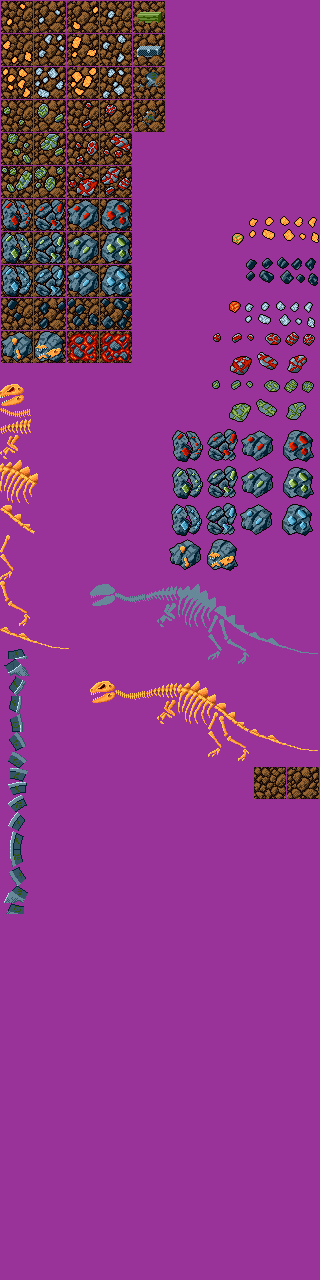
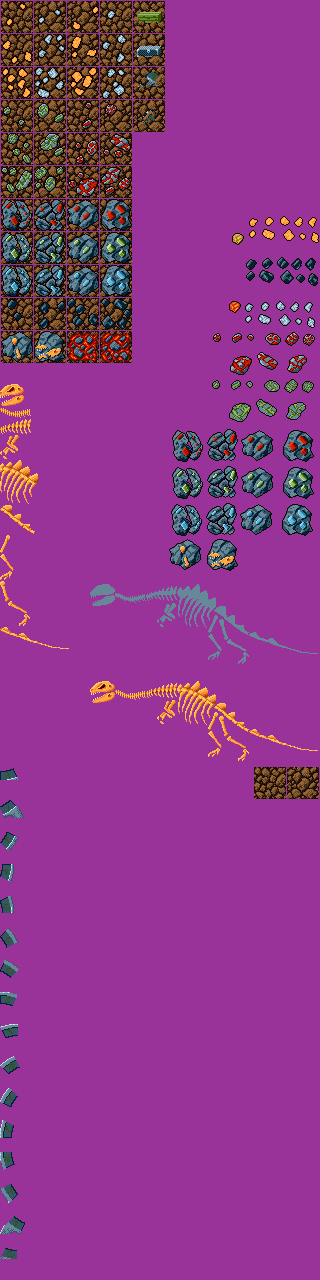
update gate and related base bitmaps to final versions (?)

Changed region(s): [[0.0, 0.5, 0.0938, 1.0]]

diff --git a/src/collectibles.c b/src/collectibles.c
@@ -65,39 +65,39 @@ static const tCollectiblesZoneDef s_pZones[COLLECTIBLE_KIND_COUNT] = {
 		// TODO: Proper values
 		.ubCount = DEFS_QUEST_GATE_PART_COUNT,
 		.pBobCoords = {
-			{.uwX = 32 +  73, .uwY = 209 * TILE_SIZE + 217},
-			{.uwX = 32 +  90, .uwY = 209 * TILE_SIZE + 210},
-			{.uwX = 32 +  97, .uwY = 209 * TILE_SIZE + 198},
-			{.uwX = 32 + 104, .uwY = 209 * TILE_SIZE + 186},
-			{.uwX = 32 + 103, .uwY = 209 * TILE_SIZE + 168},
-			{.uwX = 32 +  97, .uwY = 209 * TILE_SIZE + 154},
-			{.uwX = 32 +  87, .uwY = 209 * TILE_SIZE + 144},
-			{.uwX = 32 +  72, .uwY = 209 * TILE_SIZE + 141},
-			{.uwX = 32 +  56, .uwY = 209 * TILE_SIZE + 141},
-			{.uwX = 32 +  42, .uwY = 209 * TILE_SIZE + 144},
-			{.uwX = 32 +  32, .uwY = 209 * TILE_SIZE + 153},
-			{.uwX = 32 +  27, .uwY = 209 * TILE_SIZE + 167},
-			{.uwX = 32 +  27, .uwY = 209 * TILE_SIZE + 185},
-			{.uwX = 32 +  31, .uwY = 209 * TILE_SIZE + 198},
-			{.uwX = 32 +  40, .uwY = 209 * TILE_SIZE + 210},
-			{.uwX = 32 +  57, .uwY = 209 * TILE_SIZE + 216},
+			{.uwX = 32 +  96, .uwY = 209 * TILE_SIZE + 219},
+			{.uwX = 32 + 110, .uwY = 209 * TILE_SIZE + 213},
+			{.uwX = 32 + 120, .uwY = 209 * TILE_SIZE + 202},
+			{.uwX = 32 + 127, .uwY = 209 * TILE_SIZE + 189},
+			{.uwX = 32 + 127, .uwY = 209 * TILE_SIZE + 172},
+			{.uwX = 32 + 120, .uwY = 209 * TILE_SIZE + 157},
+			{.uwX = 32 + 109, .uwY = 209 * TILE_SIZE + 148},
+			{.uwX = 32 +  96, .uwY = 209 * TILE_SIZE + 145},
+			{.uwX = 32 +  78, .uwY = 209 * TILE_SIZE + 145},
+			{.uwX = 32 +  64, .uwY = 209 * TILE_SIZE + 148},
+			{.uwX = 32 +  55, .uwY = 209 * TILE_SIZE + 158},
+			{.uwX = 32 +  52, .uwY = 209 * TILE_SIZE + 172},
+			{.uwX = 32 +  52, .uwY = 209 * TILE_SIZE + 190},
+			{.uwX = 32 +  55, .uwY = 209 * TILE_SIZE + 203},
+			{.uwX = 32 +  59, .uwY = 209 * TILE_SIZE + 213},
+			{.uwX = 32 +  79, .uwY = 209 * TILE_SIZE + 220},
 		},
 		.pBobSizes = {
-			{.uwX = 32, .uwY = 10},
+			{.uwX = 32, .uwY = 12},
+			{.uwX = 32, .uwY = 18},
+			{.uwX = 32, .uwY = 19},
+			{.uwX = 32, .uwY = 18},
 			{.uwX = 32, .uwY = 17},
 			{.uwX = 32, .uwY = 20},
 			{.uwX = 32, .uwY = 18},
-			{.uwX = 32, .uwY = 18},
-			{.uwX = 32, .uwY = 19},
-			{.uwX = 32, .uwY = 17},
 			{.uwX = 32, .uwY = 14},
-			{.uwX = 32, .uwY = 13},
-			{.uwX = 32, .uwY = 17},
+			{.uwX = 32, .uwY = 14},
+			{.uwX = 32, .uwY = 18},
 			{.uwX = 32, .uwY = 19},
 			{.uwX = 32, .uwY = 18},
 			{.uwX = 32, .uwY = 18},
 			{.uwX = 32, .uwY = 19},
-			{.uwX = 32, .uwY = 17},
+			{.uwX = 32, .uwY = 18},
 			{.uwX = 32, .uwY = 11},
 		},
 		.szFramesFile = "data/gate.bm",

diff --git a/src/twister.c b/src/twister.c
@@ -9,13 +9,13 @@
 #include "core.h"
 
 #define TWISTER_BITMAP_VISIBLE_WIDTH 80
-#define TWISTER_BITMAP_VISIBLE_HEIGHT 67
+#define TWISTER_BITMAP_VISIBLE_HEIGHT 65
 #define CLIP_MARGIN_X 32
 #define CLIP_MARGIN_Y 16
 #define TWISTER_BITMAP_WIDTH (2 * CLIP_MARGIN_X + TWISTER_BITMAP_VISIBLE_WIDTH)
 #define TWISTER_BITMAP_HEIGHT (2 * CLIP_MARGIN_Y + TWISTER_BITMAP_VISIBLE_HEIGHT)
-#define TWISTER_CAMERA_OFFSET_X (67 / 2)
-#define TWISTER_CAMERA_OFFSET_Y (67 / 2)
+#define TWISTER_CAMERA_OFFSET_X (65 / 2)
+#define TWISTER_CAMERA_OFFSET_Y (65 / 2)
 #define TWISTER_CENTER_X (CLIP_MARGIN_X + TWISTER_CAMERA_OFFSET_X)
 #define TWISTER_CENTER_Y (CLIP_MARGIN_Y + TWISTER_CAMERA_OFFSET_Y)
 #define TWISTER_CENTER_RADIUS 1
@@ -80,12 +80,12 @@ void twisterEnable(void) {
 
 	UWORD uwDestY = (6816 & (512 - 1));
 	blitCopyAligned(
-		g_pMainBuffer->pScroll->pBack, 32 + 48, uwDestY + 24,
+		g_pMainBuffer->pScroll->pBack, 32 + 64, uwDestY + 29,
 		s_pBitmaps[!s_ubBackBuffer], CLIP_MARGIN_X, CLIP_MARGIN_Y,
 		TWISTER_BITMAP_VISIBLE_WIDTH, TWISTER_BITMAP_VISIBLE_HEIGHT
 	);
 	blitCopyAligned(
-		g_pMainBuffer->pScroll->pBack, 32 + 48, uwDestY + 24,
+		g_pMainBuffer->pScroll->pBack, 32 + 64, uwDestY + 29,
 		s_pBitmaps[s_ubBackBuffer], CLIP_MARGIN_X, CLIP_MARGIN_Y,
 		TWISTER_BITMAP_VISIBLE_WIDTH, TWISTER_BITMAP_VISIBLE_HEIGHT
 	);
@@ -201,7 +201,7 @@ void twisterProcess(void) {
 	UWORD uwDestY = (6816 & (512 - 1));
 	blitCopyAlignedMasked(
 		s_pBitmaps[!s_ubBackBuffer], CLIP_MARGIN_X, CLIP_MARGIN_Y,
-		g_pMainBuffer->pScroll->pBack, 32 + 48, uwDestY + 24,
+		g_pMainBuffer->pScroll->pBack, 32 + 64, uwDestY + 29,
 		TWISTER_BITMAP_VISIBLE_WIDTH, TWISTER_BITMAP_VISIBLE_HEIGHT
 	);
 	s_ubBackBuffer = !s_ubBackBuffer;

diff --git a/src/base.c b/src/base.c
@@ -69,8 +69,8 @@ static const tBase s_pBases[BASE_ID_COUNT] = {
 			44, 43, 43, 43, 43, 45, 43, 44, 43, 43,
 			43, 45, 43, 43, 43, 43, 43, 43, 43, 49,
 			43, 43, 43, 43, 43, 48, 45, 43, 43, 45,
-			 4,  5, 43, 43,  6,  5, 43, 43, 44, 43,
-			 7,  8, 45, 43,  9, 10, 49, 11, 43, 43,
+			 0,  1, 43, 43,  2,  1, 43, 43, 44, 43,
+			 3,  4, 45, 43,  5,  6, 49,  7, 43, 43,
 			12, 13, 43, 43, 14, 15, 16, 17, 18, 19,
 			20, 21, 22, 23, 24, 25, 26, 27, 28, 29,
 			34, 35, 36, 37, 38, 33, 39, 40, 41, 42,
